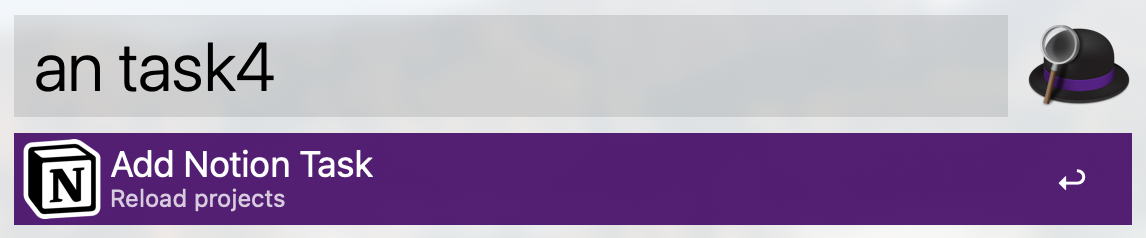
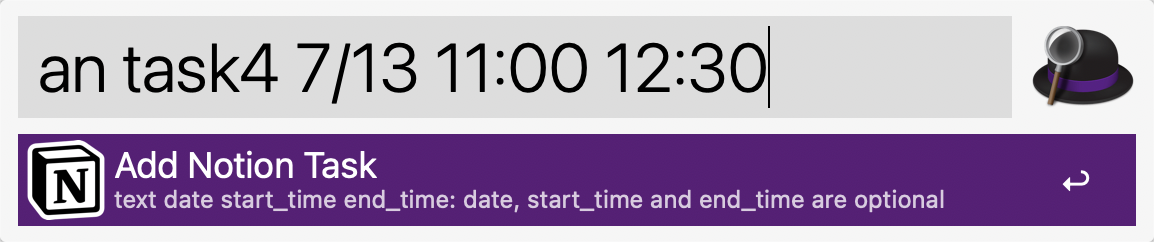
update document for the `anc' command

diff --git a/README-ja.md b/README-ja.md
@@ -5,20 +5,22 @@ Notion のタスクデータベースの追加・変更を行う Workflow です
 
 # キーワード
 
-## an: Notion にタスクを直接登録する
+## an: Notion にタスクを直接登録する / anc: タスクを Notion とカレンダーに同時登録
 
-単にタスク名、日付、時間を記述すると、Task データベースに登録します。時間を省略すると終日タスクになり、日付も省略すると今日のタスクになります。
+単にタスク名、日付、時間を記述すると、Task データベースに登録します。
+時間を省略すると終日タスクになり、日付も省略すると今日のタスクになります。
+「anc」コマンドの場合には同時にカレンダーも同時に登録します。
 
-タイトルのみ|日付も指定|時間も指定|
-:-:|:-:|:-:
-|![no date](an1.png)|![with date](an2.png)|![with date and time](an3.png)|
+タイトルのみ|日付も指定|開始時間も指定|開始・終了時間も指定|
+:-:|:-:|:-:|:-|
+|![no date](an1.png)|![with date](an2.png)|![with date and time](an3.png)|![with date and time](an4.png)|
 
 実行すると、関連するプロジェクトの一覧が表示されるので、適切なプロジェクトを選びます。
 なお、このプロジェクト一覧は内部にキャッシュされるため、二回目からは Notion へアクセスすることはありません。
 もし、プロジェクトリストを再読み込みしたい場合には、`shift` + `return`をタイプしてください。
 |プロジェクトの選択|強制的なプロジェクト読み込み (shift + return)|
 :-:|:-:
-|![select project](selectProjects.png)|![Force reload](an4.png)|
+|![select project](selectProjects.png)|![Force reload](an5.png)|
 
 ## ac: カレンダーにタスクを登録する
 

diff --git a/README.md b/README.md
@@ -8,21 +8,22 @@ This workflow uses [OneUpdater](https://github.com/vitorgalvao/alfred-workflows/
 
 # Keywords
 
-## an: Add Notion task for a project
+## an: Add Notion task for a project / anc: Add Notion task for a project and set calendar event for Notion calendar
 
 Simply type your task name, date and time into Alfred to create a task page to Notion.
 The date and time are optional.
+In the case of `anc` command, a calendar event is also registered at the same time.
 
-Title only|With date|With date and time|
-:-:|:-:|:-:
-|![no date](an1.png)|![with date](an2.png)|![with date and time](an3.png)|
+Title only|With date|With date and start time|With date, start time and end time|
+:-:|:-:|:-:|:-:
+|![no date](an1.png)|![with date](an2.png)|![with date and time](an3.png)|![with date and time](an4.png)|
 
 After typing, select a corresponding project from project lists.
 The project list was cached into this workflow.
 If you want to update the project list, type `shift` + `return` when typing a task name.
 |Project selection|Force reload project (shift + return)|
 :-:|:-:
-|![select project](selectProjects.png)|![Force reload](an4.png)|
+|![select project](selectProjects.png)|![Force reload](an5.png)|
 
 ## ac: Add calendar event for Notion calendar
 
